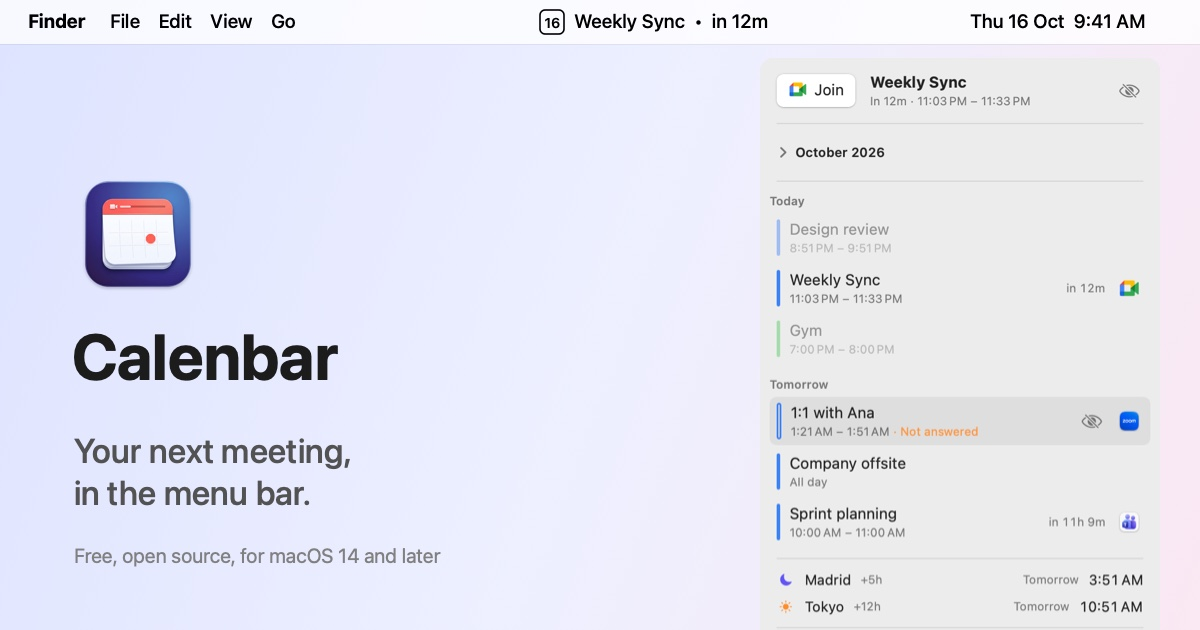
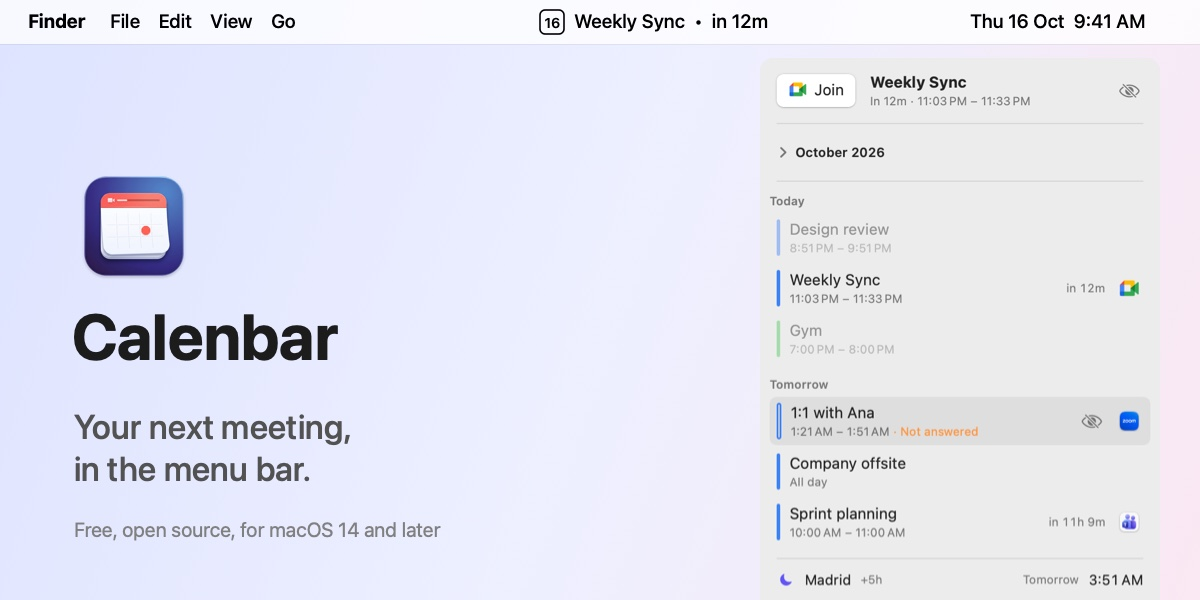
docs: 2:1 preview image

diff --git a/docs/install.html b/docs/install.html
@@ -20,7 +20,7 @@
 <meta property="og:url" content="https://hercase.github.io/calenbar/install.html">
 <meta property="og:image" content="https://hercase.github.io/calenbar/img/og.jpg">
 <meta property="og:image:width" content="1200">
-<meta property="og:image:height" content="630">
+<meta property="og:image:height" content="600">
 <meta property="og:image:alt" content="Calenbar: a Mac menu bar showing Weekly Sync in 12 minutes, with the Calenbar panel open">
 <meta property="og:locale" content="en_US">
 <meta property="og:locale:alternate" content="es_AR">

diff --git a/docs/index.html b/docs/index.html
@@ -20,7 +20,7 @@
 <meta property="og:url" content="https://hercase.github.io/calenbar/">
 <meta property="og:image" content="https://hercase.github.io/calenbar/img/og.jpg">
 <meta property="og:image:width" content="1200">
-<meta property="og:image:height" content="630">
+<meta property="og:image:height" content="600">
 <meta property="og:image:alt" content="Calenbar: a Mac menu bar showing Weekly Sync in 12 minutes, with the Calenbar panel open">
 <meta property="og:locale" content="en_US">
 <meta property="og:locale:alternate" content="es_AR">
